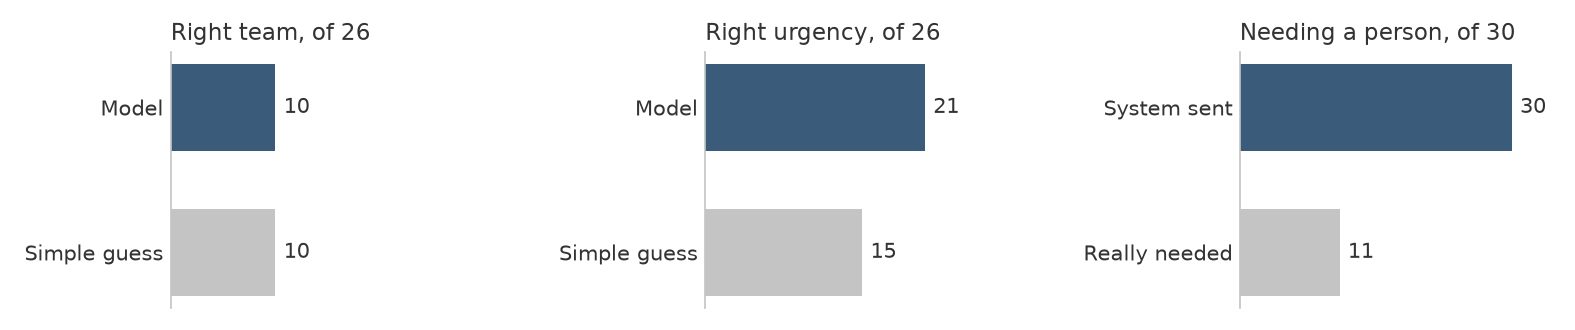
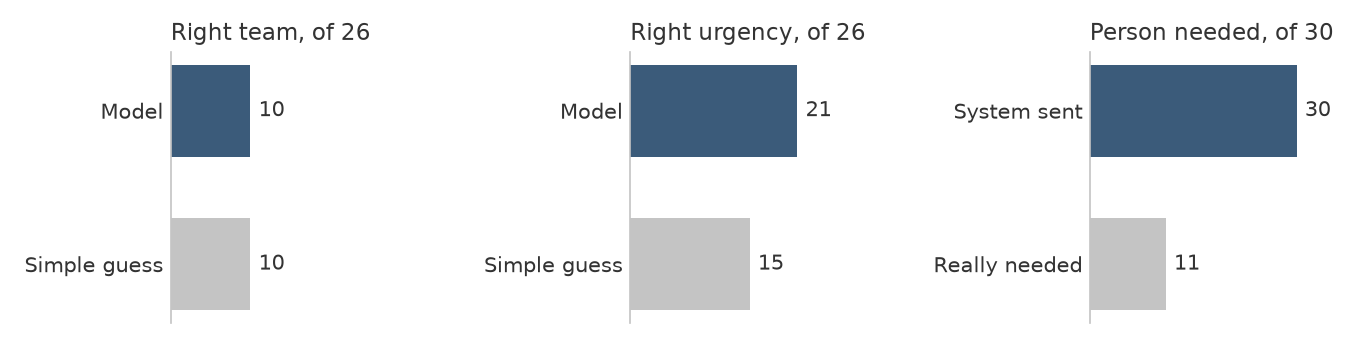
Enlarge README charts
Shows both charts at full page width, redraws the complaint chart narrower
from the same saved results so its text matches, and shortens one chart
title. No figure changed.

diff --git a/app/make_charts.py b/app/make_charts.py
@@ -44,10 +44,10 @@ def fraud_chart() -> None:
 
 def complaint_chart() -> None:
     c = engine.complaint_summary()
-    fig, axes = plt.subplots(1, 3, figsize=(10.5, 2.2))
+    fig, axes = plt.subplots(1, 3, figsize=(9, 2.3))
     panel(axes[0], f"Right team, of {c['category_n']}", ["Model", "Simple guess"], [c["category_right"], c["category_guess"]], c["category_n"])
     panel(axes[1], f"Right urgency, of {c['category_n']}", ["Model", "Simple guess"], [c["urgency_right"], c["urgency_guess"]], c["category_n"])
-    panel(axes[2], f"Needing a person, of {c['labeled']}", ["System sent", "Really needed"], [c["labeled_sent"], c["labeled_needed"]], c["labeled"])
+    panel(axes[2], f"Person needed, of {c['labeled']}", ["System sent", "Really needed"], [c["labeled_sent"], c["labeled_needed"]], c["labeled"])
     save(fig, "complaint_results.png")
 
 

diff --git a/README.md b/README.md
@@ -42,7 +42,7 @@ Models only **suggest**: nothing is blocked or closed automatically. Complaint t
 
 **Fraud: promising.** Trained on earlier payments, tested once on later ones (42,561 payments, 52 frauds). With so little fraud, accuracy is meaningless, so we count frauds caught and false alarms.
 
-<img src="docs/images/fraud_results.png" width="560" alt="Fraud results: frauds caught and false alarms for three options">
+<img src="docs/images/fraud_results.png" width="800" alt="Fraud results: frauds caught and false alarms for three options">
 
 - **Suggested start:** the simpler model, flagging payments with over a 4.2% chance of fraud: **39 of 52 caught, 20 false alarms**, for an estimated €2,667 against €6,169 if nothing is flagged. We chose it **after** seeing these results, so expect somewhat worse on new data.
 - **Errors differ:** a missed fraud loses its amount; a false alarm costs a review and may lose a customer, which we could not price. The other rule costs about the same and is cheaper when reviews are expensive. The stronger model's small edge is **not proven**.
@@ -50,7 +50,7 @@ Models only **suggest**: nothing is blocked or closed automatically. Complaint t
 
 **Complaints: safe flow, weak model.** [400 public US complaints](docs/technical_notes.md#data) processed; one person labeled 30 without seeing the model's answers.
 
-<img src="docs/images/complaint_results.png" width="600" alt="Complaint results compared with simple guesses">
+<img src="docs/images/complaint_results.png" width="800" alt="Complaint results compared with simple guesses">
 
 - **It sent all 400 to a person**, saving no review work, and chose the right team **no more often than a simple guess**.
 - Of 10 summaries, **1 was wrong or misleading**. 6 of 9 attack tests passed; in one failure, a hidden instruction kept a complaint away from a person.

diff --git a/AI_USAGE.md b/AI_USAGE.md
@@ -226,6 +226,8 @@ Final checks by AI: 403 tests, freeze verification, rescoring, one live syntheti
 
 **Update (2026-11-28, funding request and repair):** at the author's request AI added a stage 1 funding request to the README (what PayGuard provides, pass conditions, team), restored a done-and-next table and added fraud production and monitoring steps. The engineer-weeks figure is arithmetic on AI's own estimates; the fraud monitoring frequencies and the fall-back to existing controls are AI's design proposals. Shown to the author before committing; the author then asked AI to commit and push. This does not record the new proposals as separately confirmed.
 
+**Update (2026-11-28, chart size):** at the author's request AI enlarged both README charts, redrew the complaint chart narrower from the same saved results and shortened one chart title. No figure changed. Shown to the author before committing.
+
 <!-- Claude: append new session entries below this line, newest last. Keep entries specific. -->
 
 **Update (2026-11-27, project overview):** the author asked for a plain-language overview of the project. AI read the project documents and some of the code, listed files and docstrings, ran the test suite (403 passed) and explained the project in chat with text diagrams. No narrative text or labels read. Only this entry changed; no code, results or SPECS change; no commit. The author made no new decisions.
